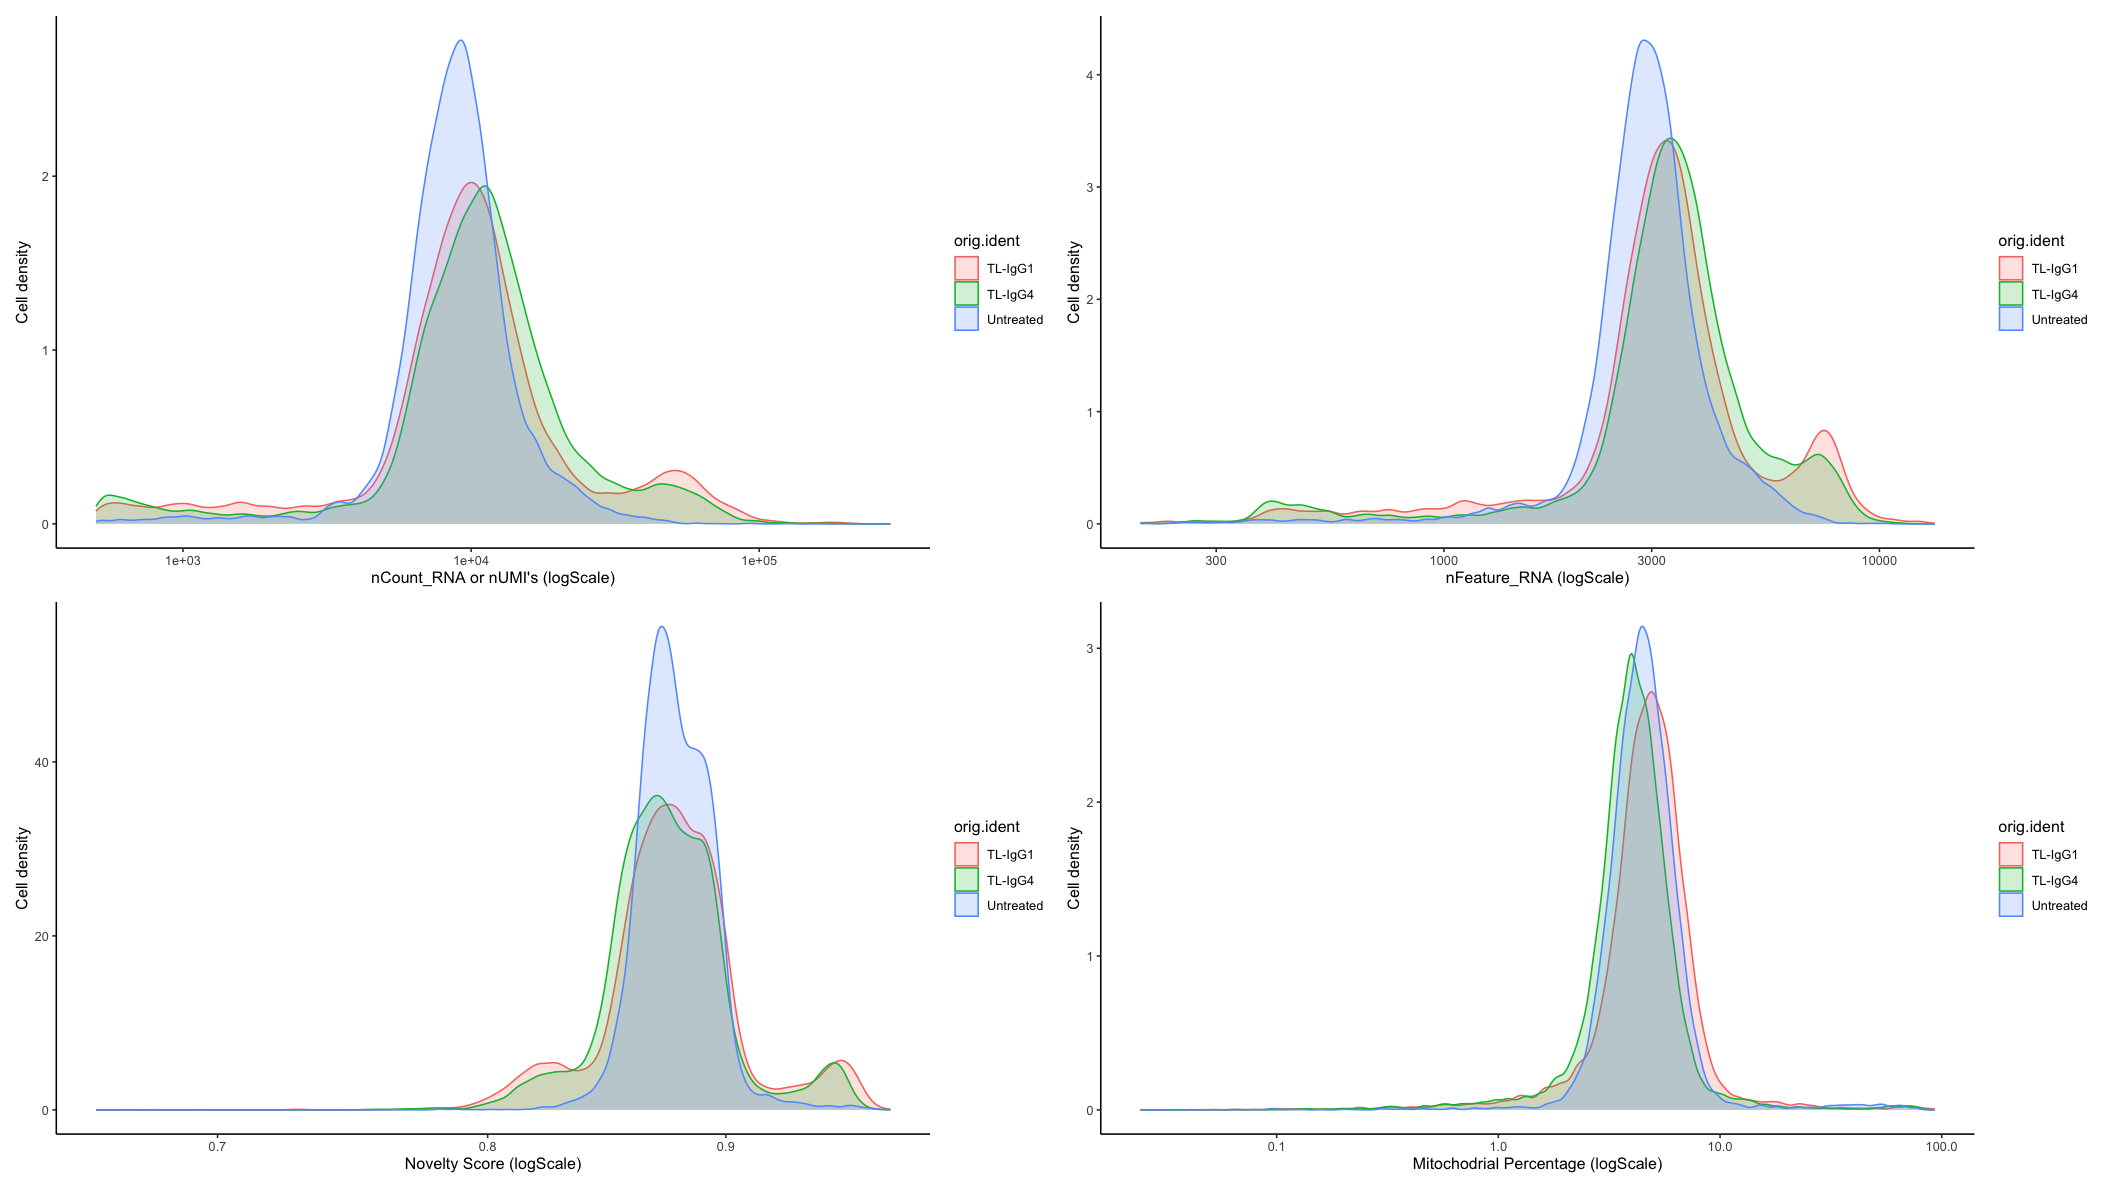
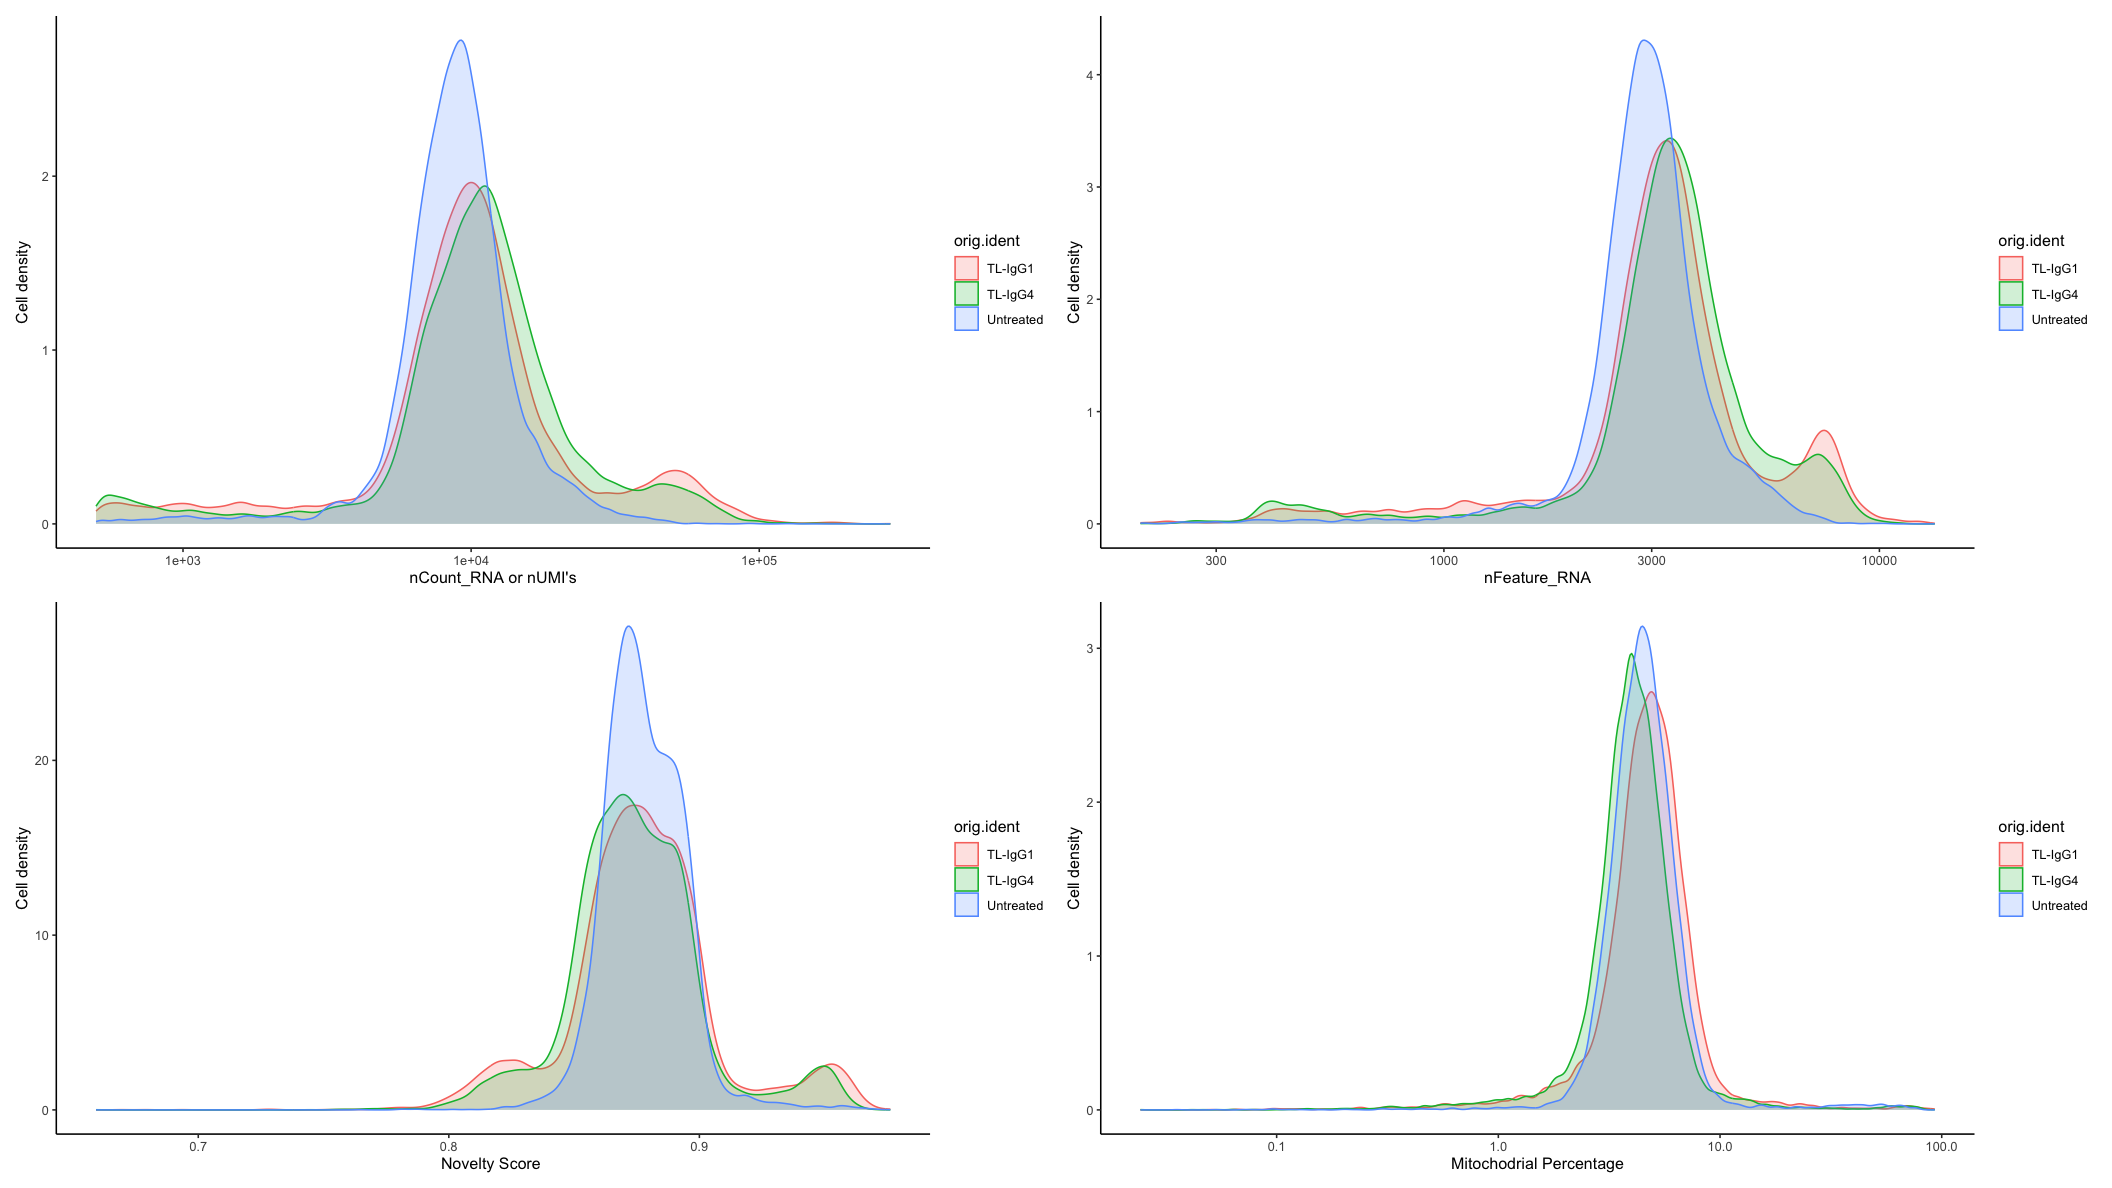
update

diff --git a/Lessons/Week2.md b/Lessons/Week2.md
@@ -270,7 +270,6 @@ n_Feature = metadata %>%
 log10GenePerUMI = metadata %>% 
   ggplot(aes(color=orig.ident, x=log10GenesPerUMI, fill= orig.ident)) + 
   geom_density(alpha = 0.2) + 
-  scale_x_log10() + 
   theme_classic() +
   ylab("Cell density") +
   xlab("Novelty Score (logScale)")
@@ -292,6 +291,11 @@ percent.mt =  metadata %>%
 ```
 
 ![density](../images/density.png)
+
+
+With the help of the 
+
+
 
 <br>
 From the above density plots, it is now much easier to see where the tails start/end. 
